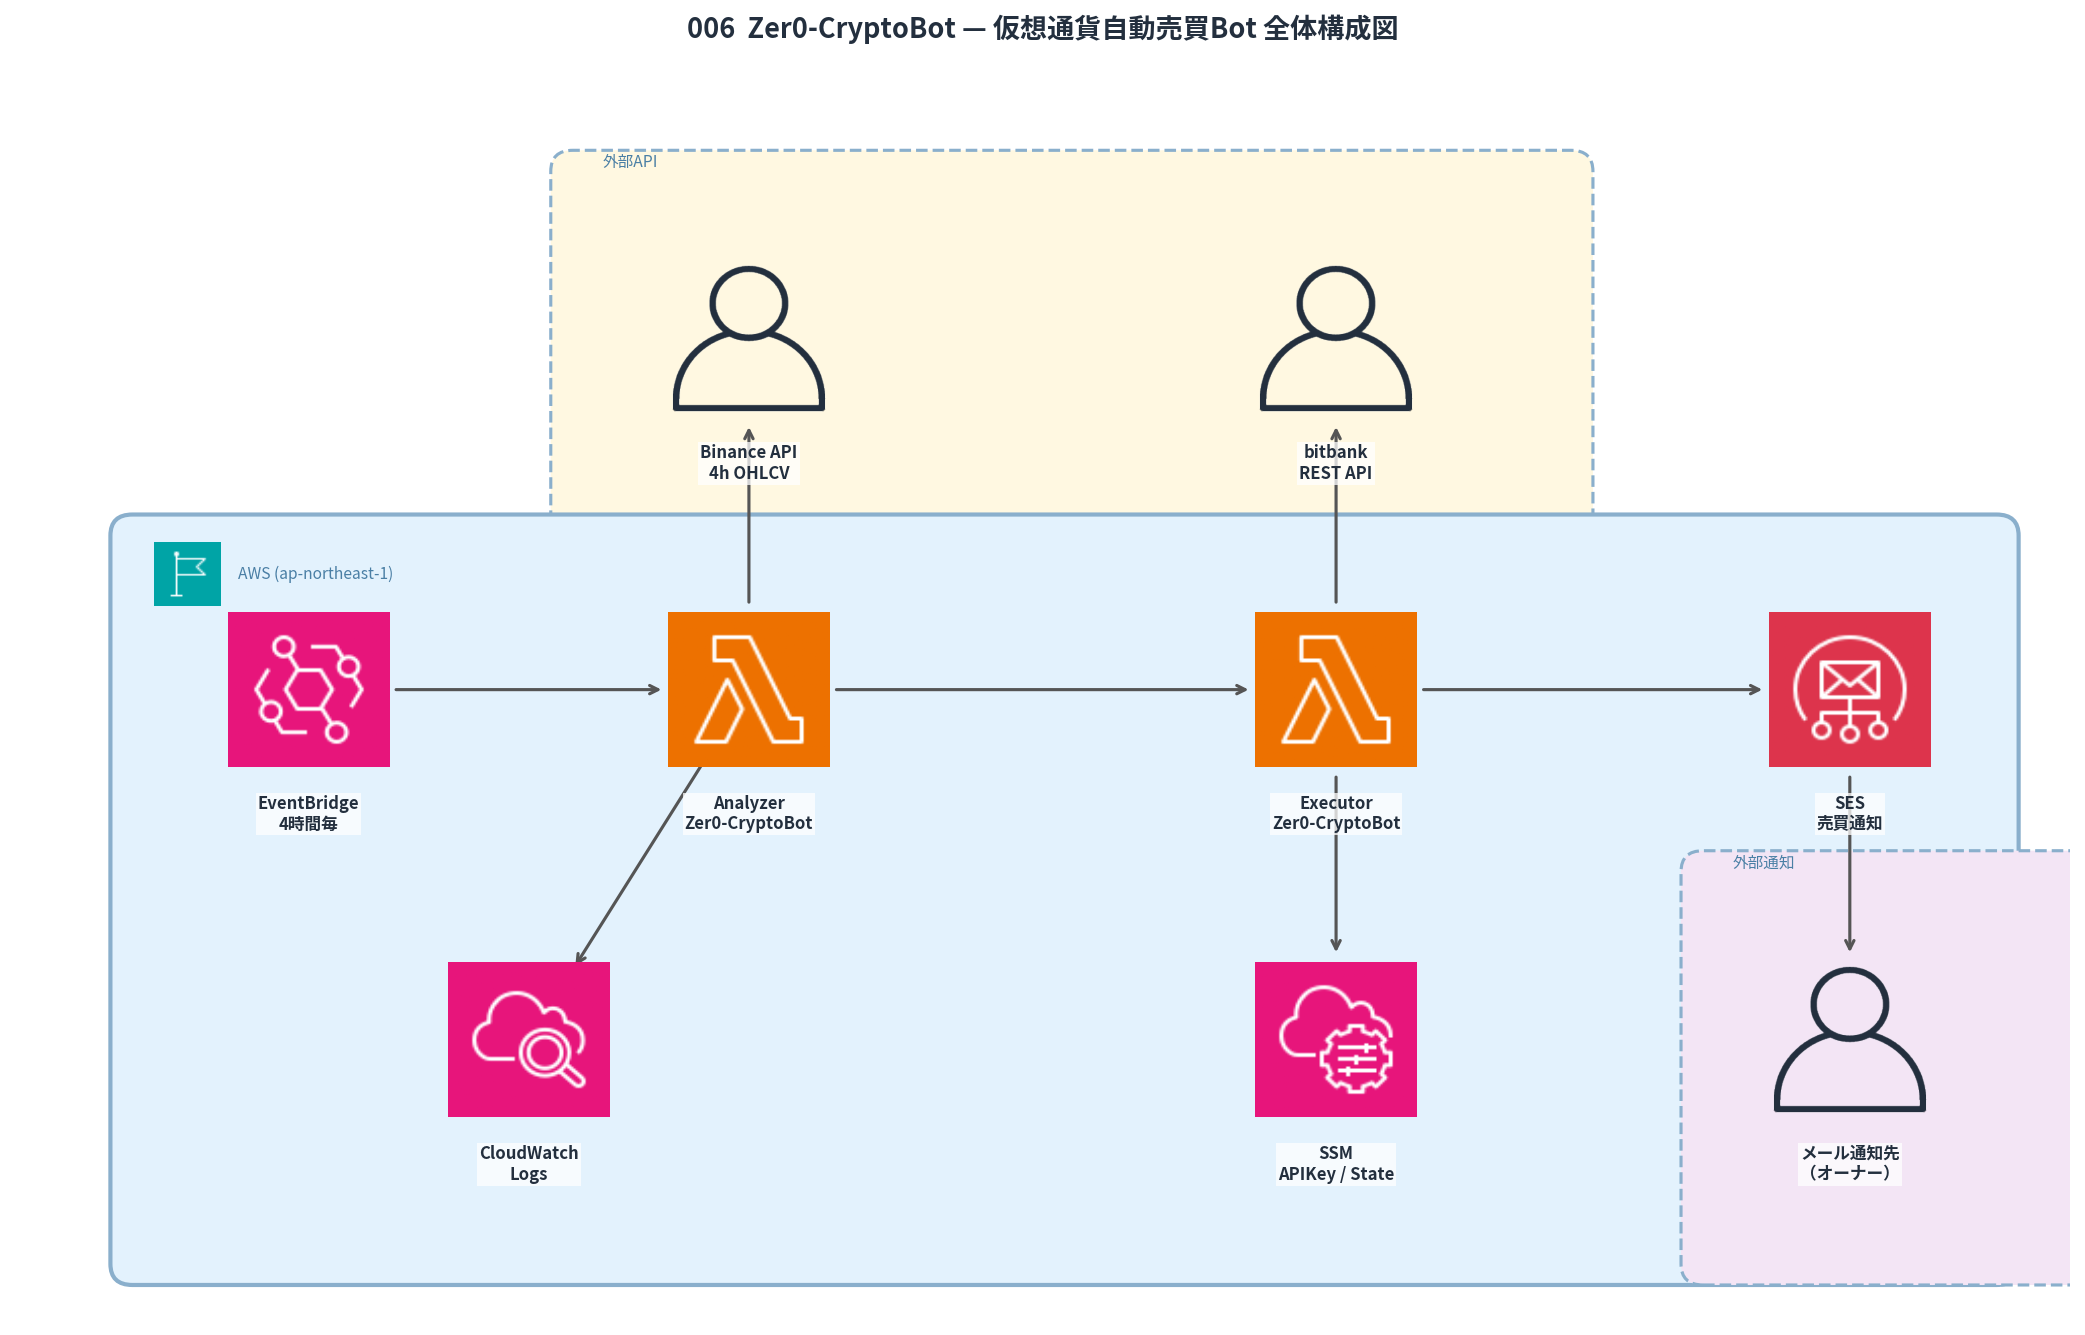
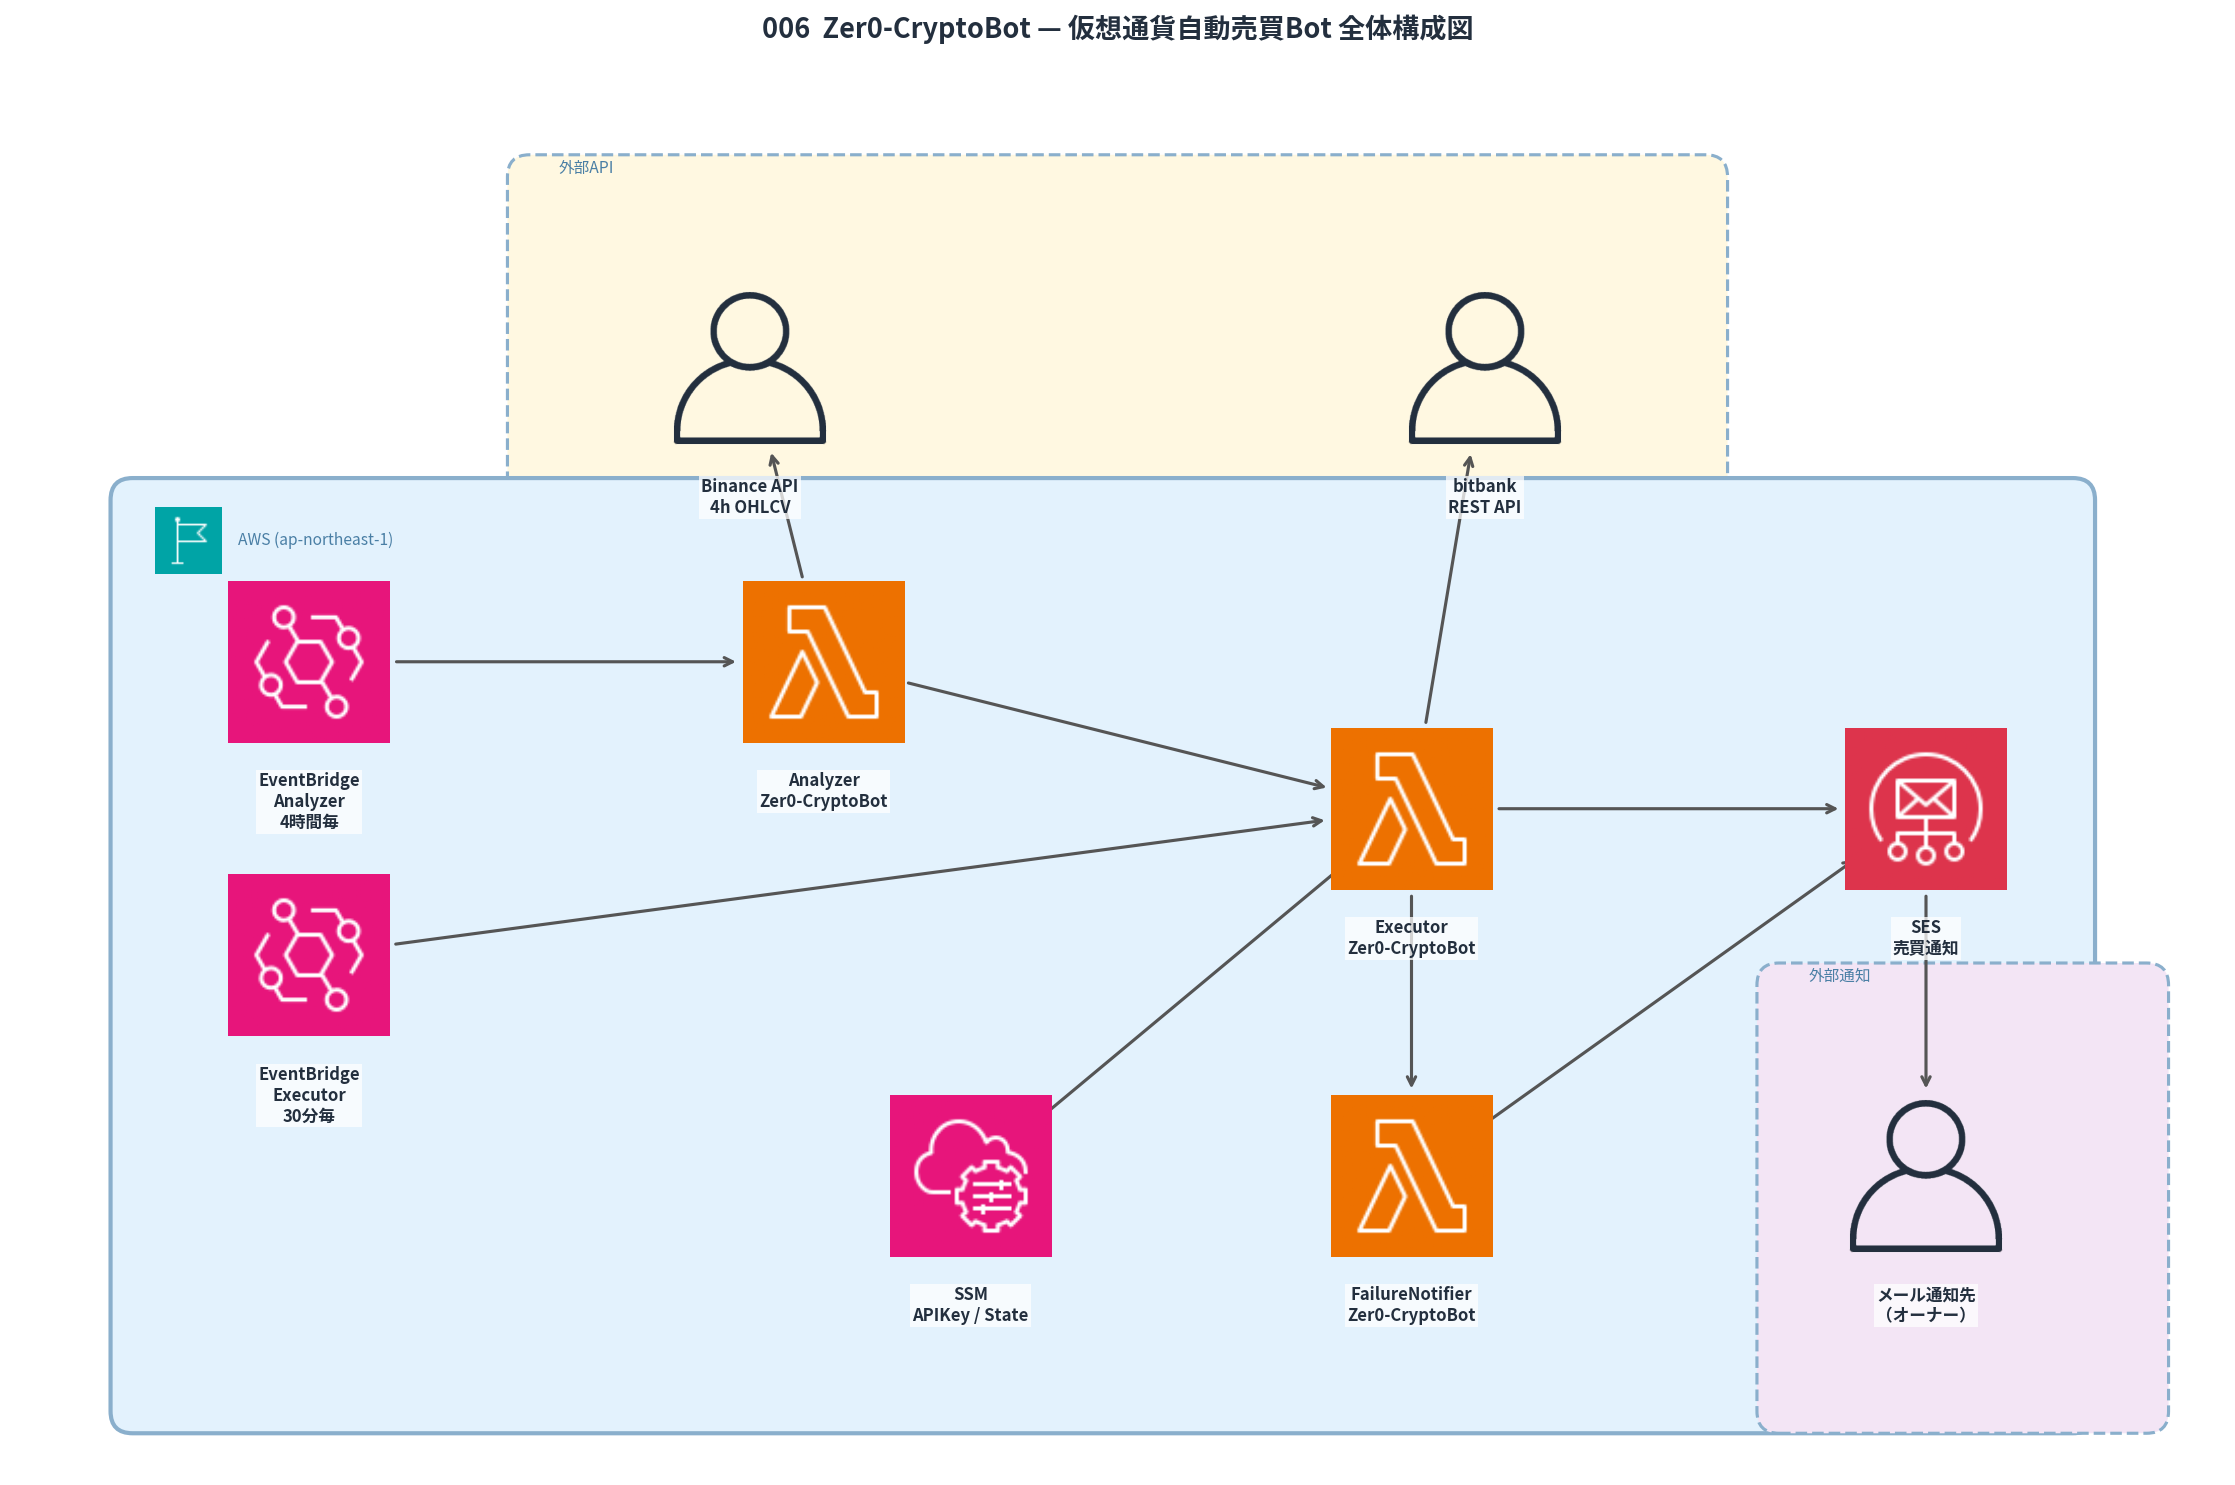
auto-sync: 2026-04-28 16:06

diff --git a/README.md b/README.md
@@ -12,7 +12,7 @@
 ├── 003_X_AI_Bot/                  # AI活用術 X自動投稿ボット
 ├── 004_portfolio/                 # Astro SSR ポートフォリオサイト
 ├── 005_Zenn_Mid_Article_Bot/      # Zenn中級者向け技術記事自動生成ボット（毎月2回）
-└── 006_Zer0_CryptoBot/           # 仮想通貨自動売買Bot（SOL/AVAX/ARB、4時間毎）
+└── 006_Zer0_CryptoBot/           # 仮想通貨自動売買Bot（BTC/ETH/SOL・信用取引・30分毎ポジション管理）
 ```
 
 ## 運用ルール
@@ -30,4 +30,4 @@
 | `003_X_AI_Bot`              | AI活用術ジャンルのXアカウントを1日2回自動投稿（21時＋日曜10時）    | 稼働中                   |
 | `004_portfolio`             | Astro SSR ポートフォリオサイト（CloudFront + Lambda + S3）         | 稼働中                   |
 | `005_Zenn_Mid_Article_Bot`  | 毎月1日・15日21時にAWS中級者向けZenn技術記事を自動生成・S3保存     | 稼働中                   |
-| `006_Zer0_CryptoBot`        | SOL/AVAX/ARBをBinanceシグナル+bitbank執行で4時間毎に自動売買        | 稼働中                   |
+| `006_Zer0_CryptoBot`        | BTC/ETH/SOLをBinanceシグナル+bitbank信用取引で自動売買（4時間毎シグナル・30分毎ポジション管理） | 稼働中 |
